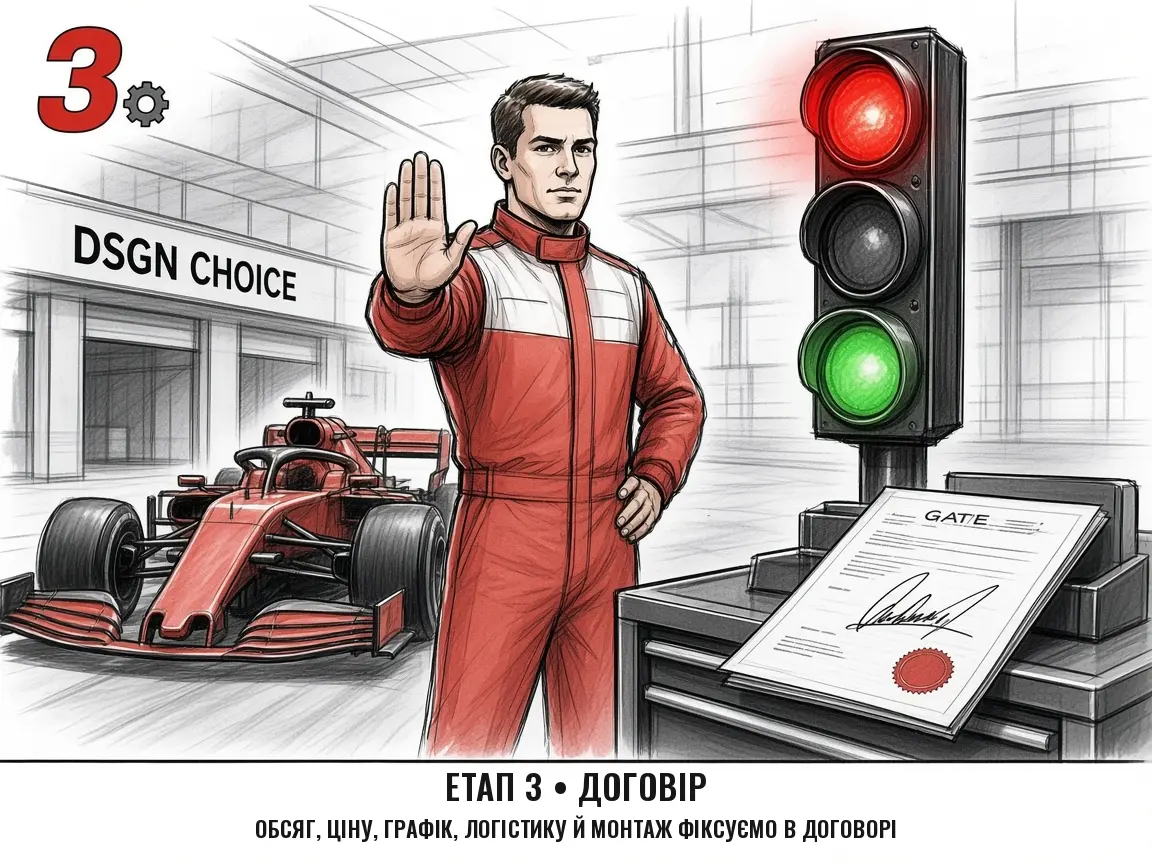
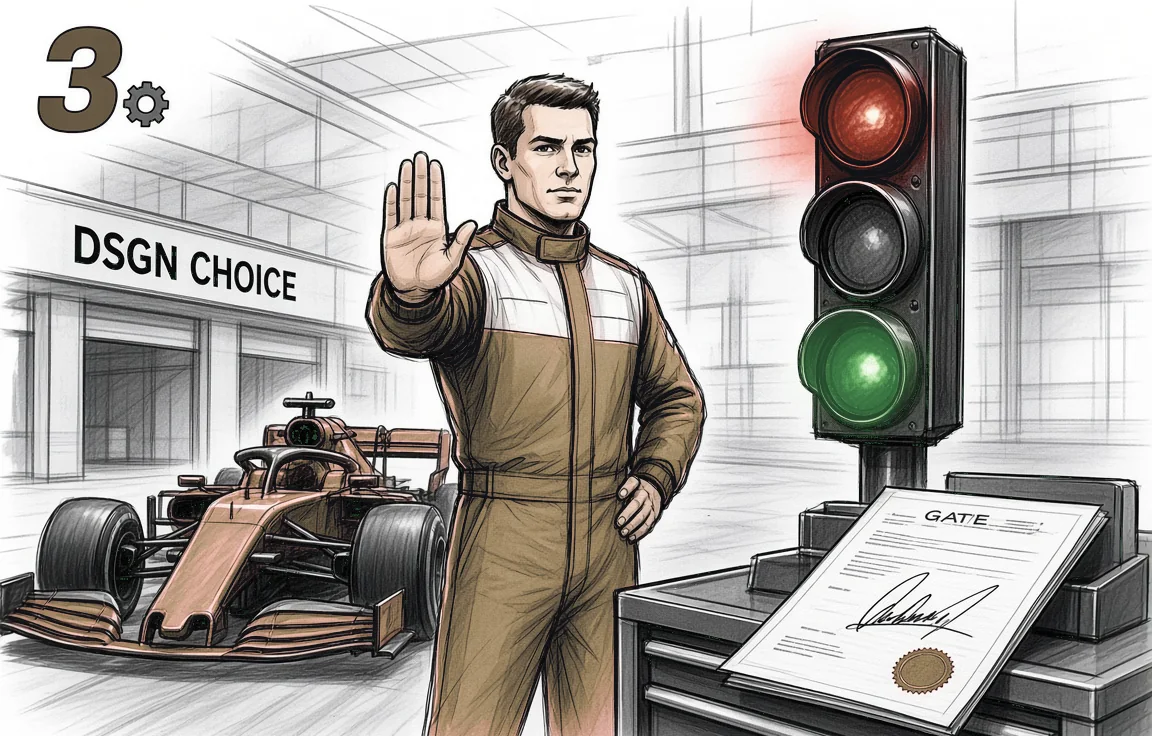
ui: recolor pit-stop art to site palette, drop baked captions
Red becomes brass, green is muted to the go tone, the step 3 stop lamp
keeps a muted red. The baked caption strip is cropped off (title and body
already render in the card). scripts/finish-pit-stop.py regenerates the
WebP files from the localized PNGs.

Claude-Session: https://claude.ai/code/session_01VrwKjsMYad19rJ1RTgWPmA

diff --git a/src/components/HowWeWork.tsx b/src/components/HowWeWork.tsx
@@ -50,7 +50,7 @@ function ChapterArt({
         src={stepArtFor(locale, stepKey)}
         alt={title}
         width={1152}
-        height={864}
+        height={736}
         loading="lazy"
         draggable={false}
       />

diff --git a/src/components/HowWeWork.module.css b/src/components/HowWeWork.module.css
@@ -120,7 +120,7 @@
   margin: 0;
   overflow: hidden;
   border-radius: 8px;
-  aspect-ratio: 4 / 3;
+  aspect-ratio: 1152 / 736;
   background: var(--paper-deep);
   will-change: transform, opacity, filter;
 }

diff --git a/scripts/finish-pit-stop.py b/scripts/finish-pit-stop.py
@@ -1,0 +1,84 @@
+#!/usr/bin/env python3
+"""Turn the localized pit-stop PNGs into the site's WebP art.
+
+Recolors the storyboards into the site palette (red -> brass, green -> muted
+go, signal lamp -> stop) and crops off the baked caption strip: the step
+title and body are rendered in HTML instead. Requires Pillow and numpy.
+"""
+
+from __future__ import annotations
+
+from pathlib import Path
+
+import numpy as np
+from PIL import Image
+
+ROOT = Path(__file__).resolve().parents[1]
+ART_DIR = ROOT / "public" / "images" / "pit-stop"
+LOCALES = ("en", "uk", "ru")
+STEPS = ("consult", "design", "confirm", "manufacture", "deliver", "support")
+
+CROP_HEIGHT = 736
+
+INK = np.array([0x11, 0x13, 0x18], float)
+BRASS_MID = np.array([0x9c, 0x84, 0x5f], float)
+BRASS_LIGHT = np.array([0xea, 0xde, 0xc8], float)
+STOP_MID = np.array([0x9b, 0x3a, 0x2a], float)
+STOP_LIGHT = np.array([0xe3, 0x9a, 0x84], float)
+GO_DARK = np.array([0x2a, 0x4f, 0x32], float)
+GO = np.array([0x3f, 0x7a, 0x4a], float)
+
+# Signal lamp of the step 3 traffic light (x0, y0, x1, y1), kept red.
+LAMPS = {"confirm": (780, 0, 1000, 260)}
+
+
+def ramp(t: np.ndarray, mid: np.ndarray, light: np.ndarray) -> np.ndarray:
+    t = t[..., None]
+    low = INK + (mid - INK) * (t / 0.5)
+    high = mid + (light - mid) * ((t - 0.5) / 0.5)
+    return np.where(t < 0.5, low, high)
+
+
+def recolor(img: Image.Image, lamp: tuple[int, int, int, int] | None) -> Image.Image:
+    a = np.asarray(img.convert("RGB"), float) / 255.0
+    r, g, b = a[..., 0], a[..., 1], a[..., 2]
+    mx, mn = a.max(-1), a.min(-1)
+    d = np.maximum(mx - mn, 1e-6)
+    sat = np.where(mx > 0, (mx - mn) / np.maximum(mx, 1e-6), 0)
+    hue = np.where(mx == r, ((g - b) / d) % 6, np.where(mx == g, (b - r) / d + 2, (r - g) / d + 4)) * 60
+    lum = 0.299 * r + 0.587 * g + 0.114 * b
+
+    red = ((hue < 25) | (hue > 335)) & (sat > 0.18)
+    green = (hue > 80) & (hue < 170) & (sat > 0.18)
+    t = np.clip((lum - 0.15) / 0.65, 0, 1)
+    k = np.clip((sat - 0.18) / 0.4, 0, 1)[..., None]
+
+    out = a * 255.0
+    brass = ramp(t, BRASS_MID, BRASS_LIGHT)
+    stop = ramp(t, STOP_MID, STOP_LIGHT)
+    red_target = brass
+    if lamp:
+        x0, y0, x1, y1 = lamp
+        in_lamp = np.zeros(red.shape, bool)
+        in_lamp[y0:y1, x0:x1] = True
+        red_target = np.where(in_lamp[..., None], stop, brass)
+    out = np.where(red[..., None], out * (1 - k) + red_target * k, out)
+
+    gt = np.clip((lum - 0.2) / 0.6, 0, 1)[..., None]
+    gk = k * 0.9
+    out = np.where(green[..., None], out * (1 - gk) + (GO_DARK + (GO - GO_DARK) * gt) * gk, out)
+    return Image.fromarray(np.clip(out, 0, 255).astype(np.uint8))
+
+
+def main() -> None:
+    for locale in LOCALES:
+        for step in STEPS:
+            src = ART_DIR / locale / f"{step}.png"
+            art = recolor(Image.open(src), LAMPS.get(step))
+            art = art.crop((0, 0, art.width, CROP_HEIGHT))
+            art.save(ART_DIR / locale / f"{step}.webp", "WEBP", quality=84, method=6)
+            print(f"{locale}/{step}")
+
+
+if __name__ == "__main__":
+    main()
